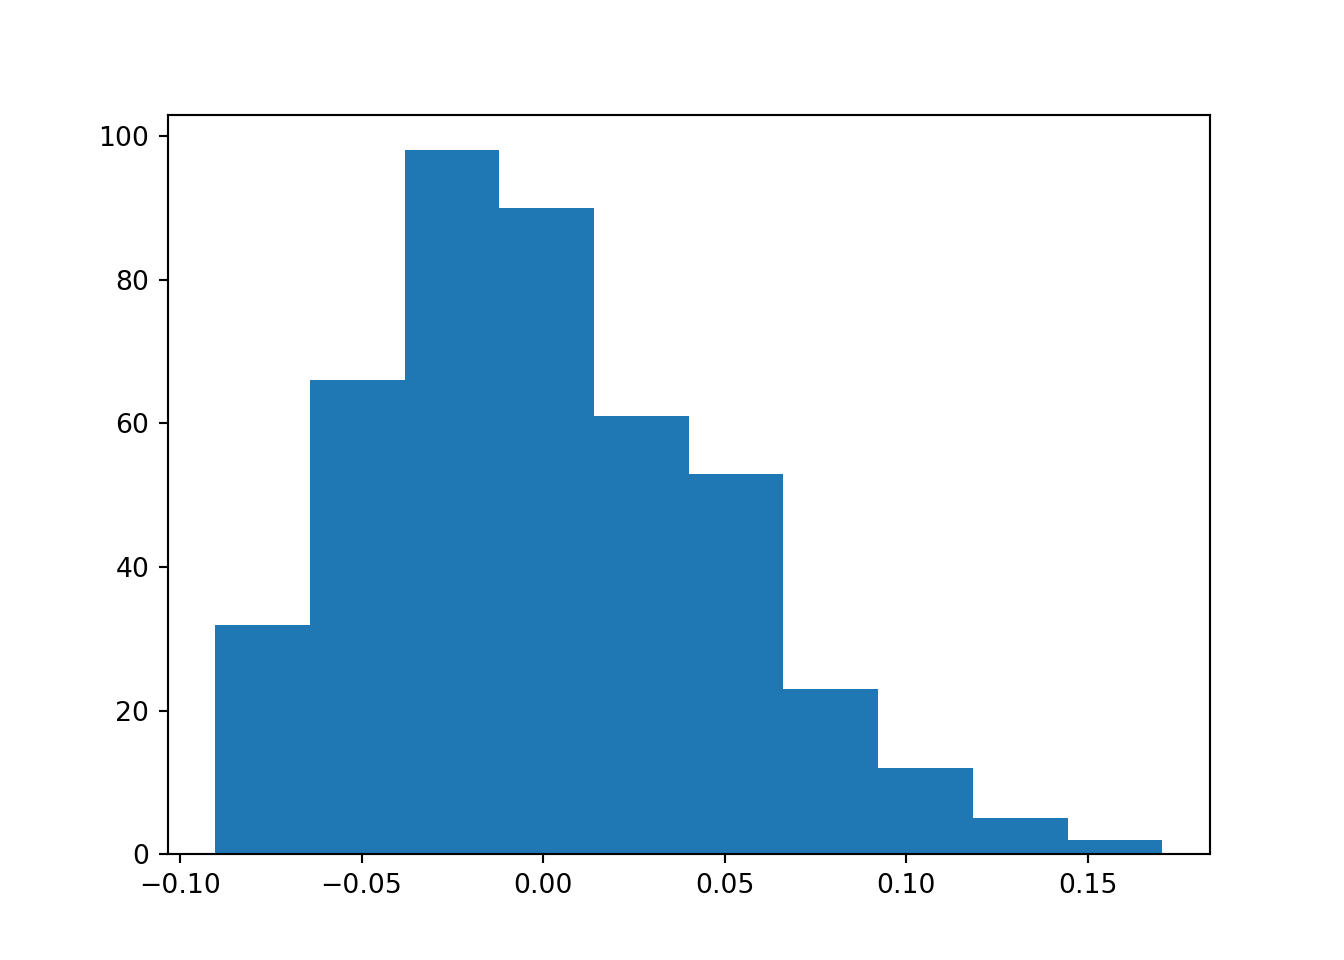
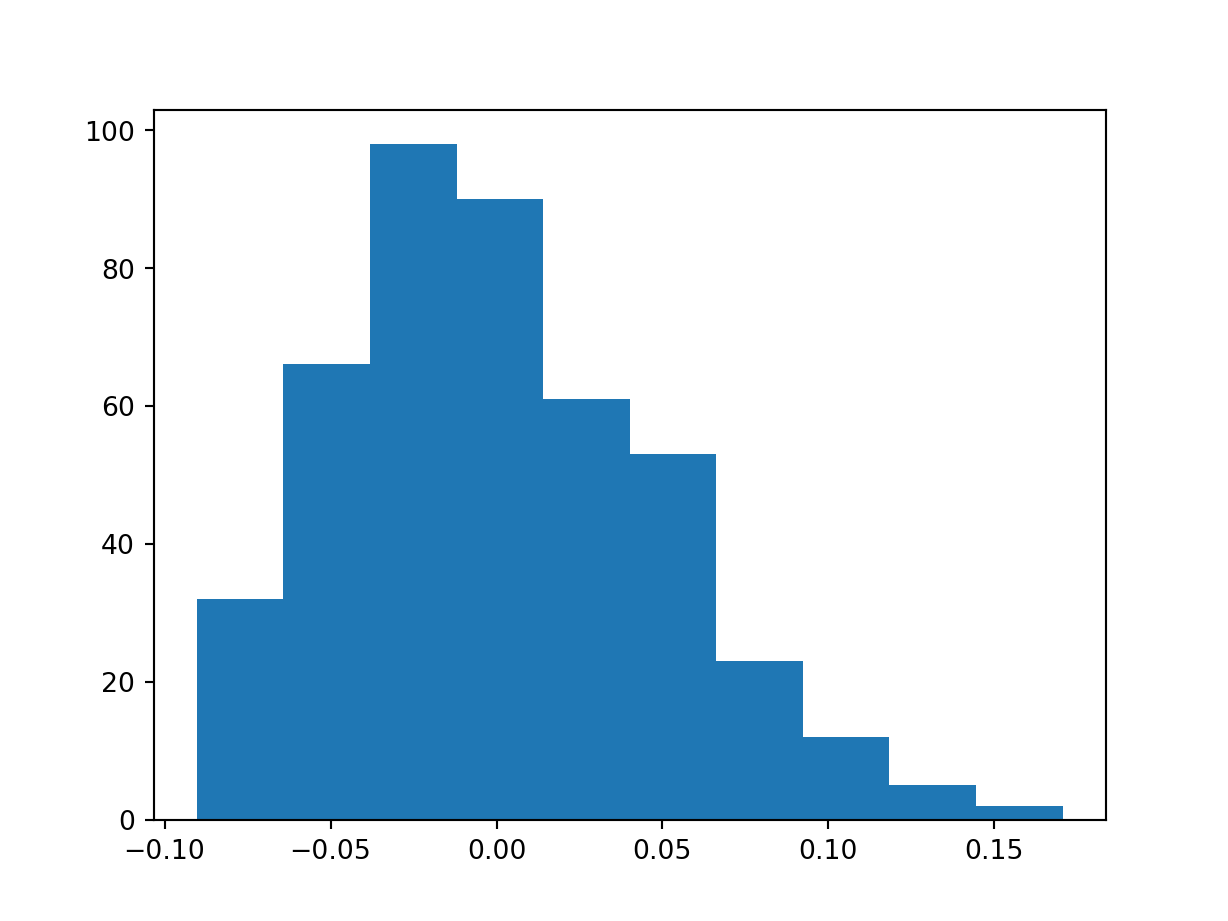
NNet tab

diff --git a/intro.html b/intro.html
@@ -291,6 +291,13 @@ $(document).ready(function () {
   </a>
 </li>
 <li>
+  <a href="NeuralNets.html">
+    <span class="fa fa-light fa-chart-network"></span>
+     
+    Neural Networks
+  </a>
+</li>
+<li>
   <a href="discussionboard.html">
     <span class="fa fa-solid fa-comments"></span>
      
@@ -588,8 +595,34 @@ feature of R means that people all over the world are constantly working
 on packages and functions to make our lives easier. These can be used by
 calling the libraries in which they are stored:</p>
 <pre class="r"><code>#  My personal favourite are the Tidyverse library, by Hadley Whickam, and data.table. Both are brilliant for data exploration, manipulation, and visualisation. 
-library(tidyverse)
-library(data.table)</code></pre>
+library(tidyverse)</code></pre>
+<pre><code>## ── Attaching core tidyverse packages ──────────────────────── tidyverse 2.0.0 ──
+## ✔ dplyr     1.1.3     ✔ readr     2.1.4
+## ✔ forcats   1.0.0     ✔ stringr   1.5.0
+## ✔ ggplot2   3.4.4     ✔ tibble    3.2.1
+## ✔ lubridate 1.9.3     ✔ tidyr     1.3.0
+## ✔ purrr     1.0.2     
+## ── Conflicts ────────────────────────────────────────── tidyverse_conflicts() ──
+## ✖ dplyr::filter()  masks stats::filter()
+## ✖ lubridate::hms() masks vembedr::hms()
+## ✖ dplyr::lag()     masks stats::lag()
+## ℹ Use the conflicted package (&lt;http://conflicted.r-lib.org/&gt;) to force all conflicts to become errors</code></pre>
+<pre class="r"><code>library(data.table)</code></pre>
+<pre><code>## 
+## Attaching package: &#39;data.table&#39;
+## 
+## The following objects are masked from &#39;package:lubridate&#39;:
+## 
+##     hour, isoweek, mday, minute, month, quarter, second, wday, week,
+##     yday, year
+## 
+## The following objects are masked from &#39;package:dplyr&#39;:
+## 
+##     between, first, last
+## 
+## The following object is masked from &#39;package:purrr&#39;:
+## 
+##     transpose</code></pre>
 <p>If you’re working with an imported data set, you should probably set
 up your working directory as well:</p>
 <pre class="r"><code>setwd(&quot;~/Desktop/&quot;) #Note that the squiggly symbol is a shortcut for Mac users, if you&#39;re a Windows user, please write the whole path.</code></pre>
@@ -1287,8 +1320,8 @@ print(lm_2.summary()) # print linear model parameters</code></pre>
 ## Dep. Variable:                      y   R-squared:                       0.518
 ## Model:                            OLS   Adj. R-squared:                  0.507
 ## Method:                 Least Squares   F-statistic:                     46.27
-## Date:                Tue, 30 Jan 2024   Prob (F-statistic):           3.83e-62
-## Time:                        15:23:26   Log-Likelihood:                -2386.0
+## Date:                Mon, 19 Feb 2024   Prob (F-statistic):           3.83e-62
+## Time:                        14:43:10   Log-Likelihood:                -2386.0
 ## No. Observations:                 442   AIC:                             4794.
 ## Df Residuals:                     431   BIC:                             4839.
 ## Df Model:                          10                                         
@@ -1340,12 +1373,12 @@ age = pandas_diabetes.iloc[:,0] # select and store age variable
 
 plt.hist(bmi)
 plt.show() </code></pre>
-<p><img src="intro_files/figure-html/unnamed-chunk-35-1.png" width="672" /></p>
+<p><img src="intro_files/figure-html/unnamed-chunk-35-1.png" width="614" /></p>
 <pre class="python"><code>plt.clf()
 
 plt.scatter(age,bmi) # order is x,y
 plt.show()</code></pre>
-<p><img src="intro_files/figure-html/unnamed-chunk-35-2.png" width="672" /></p>
+<p><img src="intro_files/figure-html/unnamed-chunk-35-2.png" width="614" /></p>
 <pre class="python"><code># let&#39;s add some elements#add line of best fit to plot
 
 # find line of best fit
@@ -1356,7 +1389,7 @@ plt.scatter(age,bmi) # order is x,y
 # add the line and then display
 plt.plot(age, a*age+b, color=&#39;red&#39;, linestyle=&#39;--&#39;, linewidth=2)
 plt.show()</code></pre>
-<p><img src="intro_files/figure-html/unnamed-chunk-35-3.png" width="672" /></p>
+<p><img src="intro_files/figure-html/unnamed-chunk-35-3.png" width="614" /></p>
 <p><strong>Defining functions and loops</strong></p>
 <p>The last useful tip before we begin to use Python in earnest, is to
 remember that we can define functions or use loops (general flow

diff --git a/NeuralNets.html b/NeuralNets.html
@@ -291,6 +291,13 @@ $(document).ready(function () {
   </a>
 </li>
 <li>
+  <a href="NeuralNets.html">
+    <span class="fa fa-light fa-chart-network"></span>
+     
+    Neural Networks
+  </a>
+</li>
+<li>
   <a href="discussionboard.html">
     <span class="fa fa-solid fa-comments"></span>
      
@@ -408,11 +415,13 @@ you have any questions about the variables).</p>
 ## [103] &quot;income_pct_w4&quot;    &quot;income_pct_w5&quot;    &quot;income_pct_w6&quot;   
 ## [106] &quot;income_pct_w7&quot;    &quot;income_pct_w8&quot;</code></pre>
 <pre class="r"><code>## and how big it is
-dim(z)</code></pre>
+dim(z) </code></pre>
 <pre><code>## [1] 412110    107</code></pre>
 <pre class="r"><code># ==== we can also use our trusted skimr package ==== #
 # skim(z)
-# =================================================== # </code></pre>
+# =================================================== # 
+
+# Remember to take out the hashtag to print the command! </code></pre>
 <h3>
 <ol style="list-style-type: decimal">
 <li>Data Preparation
@@ -862,7 +871,7 @@ names(z4)</code></pre>
 ## plot the first 100 observations
 ## we will use a pairs plot
 plot(head(z4,100))</code></pre>
-<p><img src="NeuralNets_files/figure-html/unnamed-chunk-12-1.png" width="768" /></p>
+<p><img src="NeuralNets_files/figure-html/unnamed-chunk-11-1.png" width="768" /></p>
 <pre class="r"><code># you can use the zoom function of the image if you&#39;re replicating this script locally (that way you can read the variable names).
 
 ## look more closely at migrant and vaccination (the others seem to have a good spread)
@@ -1424,9 +1433,9 @@ print(&quot;Confusion Matrix:&quot;, cm)</code></pre>
 <pre><code>## Confusion Matrix: [[ 42 381]
 ##  [ 21 933]]</code></pre>
 <pre class="python"><code>ConfusionMatrixDisplay(confusion_matrix=cm).plot() # create confusion matrix plot</code></pre>
-<pre><code>## &lt;sklearn.metrics._plot.confusion_matrix.ConfusionMatrixDisplay object at 0x116cf4f70&gt;</code></pre>
+<pre><code>## &lt;sklearn.metrics._plot.confusion_matrix.ConfusionMatrixDisplay object at 0x12ea5cf70&gt;</code></pre>
 <pre class="python"><code>plt.show() # display confusion matrix plot created above</code></pre>
-<p><img src="NeuralNets_files/figure-html/unnamed-chunk-29-1.png" width="672" /></p>
+<p><img src="NeuralNets_files/figure-html/unnamed-chunk-28-1.png" width="672" /></p>
 <p>So, the numbers have switched here: <span
 class="math inline">\(2\)</span> is now <span
 class="math inline">\(1\)</span> and <span

diff --git a/index.html b/index.html
@@ -290,6 +290,13 @@ $(document).ready(function () {
   </a>
 </li>
 <li>
+  <a href="NeuralNets.html">
+    <span class="fa fa-light fa-chart-network"></span>
+     
+    Neural Networks
+  </a>
+</li>
+<li>
   <a href="discussionboard.html">
     <span class="fa fa-solid fa-comments"></span>
      
@@ -512,10 +519,8 @@ Ziani</a></p>
 <h2>6. Neural Networks</h2>
 <pre><code>·   Neural Network Architecture: neurons and layers
 ·   Inputs and output: the activation function (sigmoid, tahn...)</code></pre>
-<p><strong>Release date: 15 February, 2024.</strong></p>
+<p><strong>Release date: 19 February, 2024.</strong></p>
 <p><strong>Instructor:</strong> <a
-href="https://scholar.google.com/citations?user=6lDNFOYAAAAJ&amp;hl=en">Dr. Emanuele
-Pugliese</a> and <a
 href="https://ideas.repec.org/e/pco61.html">Prof. Dr. Robin
 Cowan</a></p>
 <p><strong>Optional Readings</strong></p>

diff --git a/discussionboard.html b/discussionboard.html
@@ -290,6 +290,13 @@ $(document).ready(function () {
   </a>
 </li>
 <li>
+  <a href="NeuralNets.html">
+    <span class="fa fa-light fa-chart-network"></span>
+     
+    Neural Networks
+  </a>
+</li>
+<li>
   <a href="discussionboard.html">
     <span class="fa fa-solid fa-comments"></span>
      

diff --git a/fairml.html b/fairml.html
@@ -291,6 +291,13 @@ $(document).ready(function () {
   </a>
 </li>
 <li>
+  <a href="NeuralNets.html">
+    <span class="fa fa-light fa-chart-network"></span>
+     
+    Neural Networks
+  </a>
+</li>
+<li>
   <a href="discussionboard.html">
     <span class="fa fa-solid fa-comments"></span>
      
